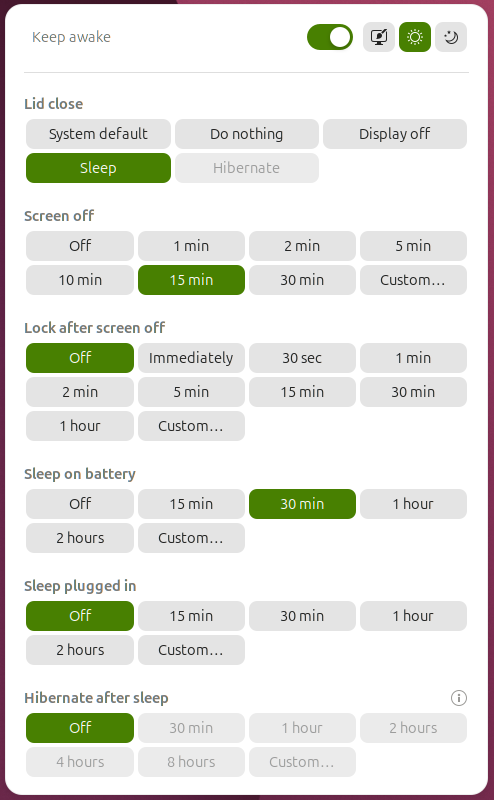
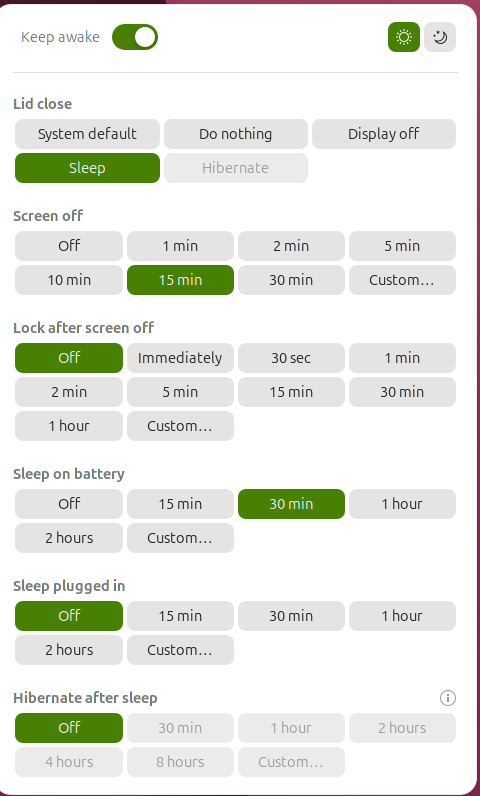
docs: screenshots with the two-state appearance toggle
Claude-Session: https://claude.ai/code/session_01AxEcQoRfvQ94yoteFjroM8

diff --git a/README.md b/README.md
@@ -3,7 +3,7 @@
 A GNOME Shell extension that puts keep awake, lid close, screen off, lock, sleep and hibernate in one top bar menu. It works with GNOME's own settings where they exist and adds what GNOME Settings does not offer, such as a lid close action and hibernate after sleep.
 
 <p align="center">
-  <img src="preview-dark.png" alt="Sandman popup in dark mode, hovering the appearance toggle" width="46%">
+  <img src="preview-dark.png" alt="Sandman popup in dark mode" width="46%">
   &nbsp;&nbsp;
   <img src="preview-light.png" alt="Sandman popup in light mode" width="46%">
 </p>
